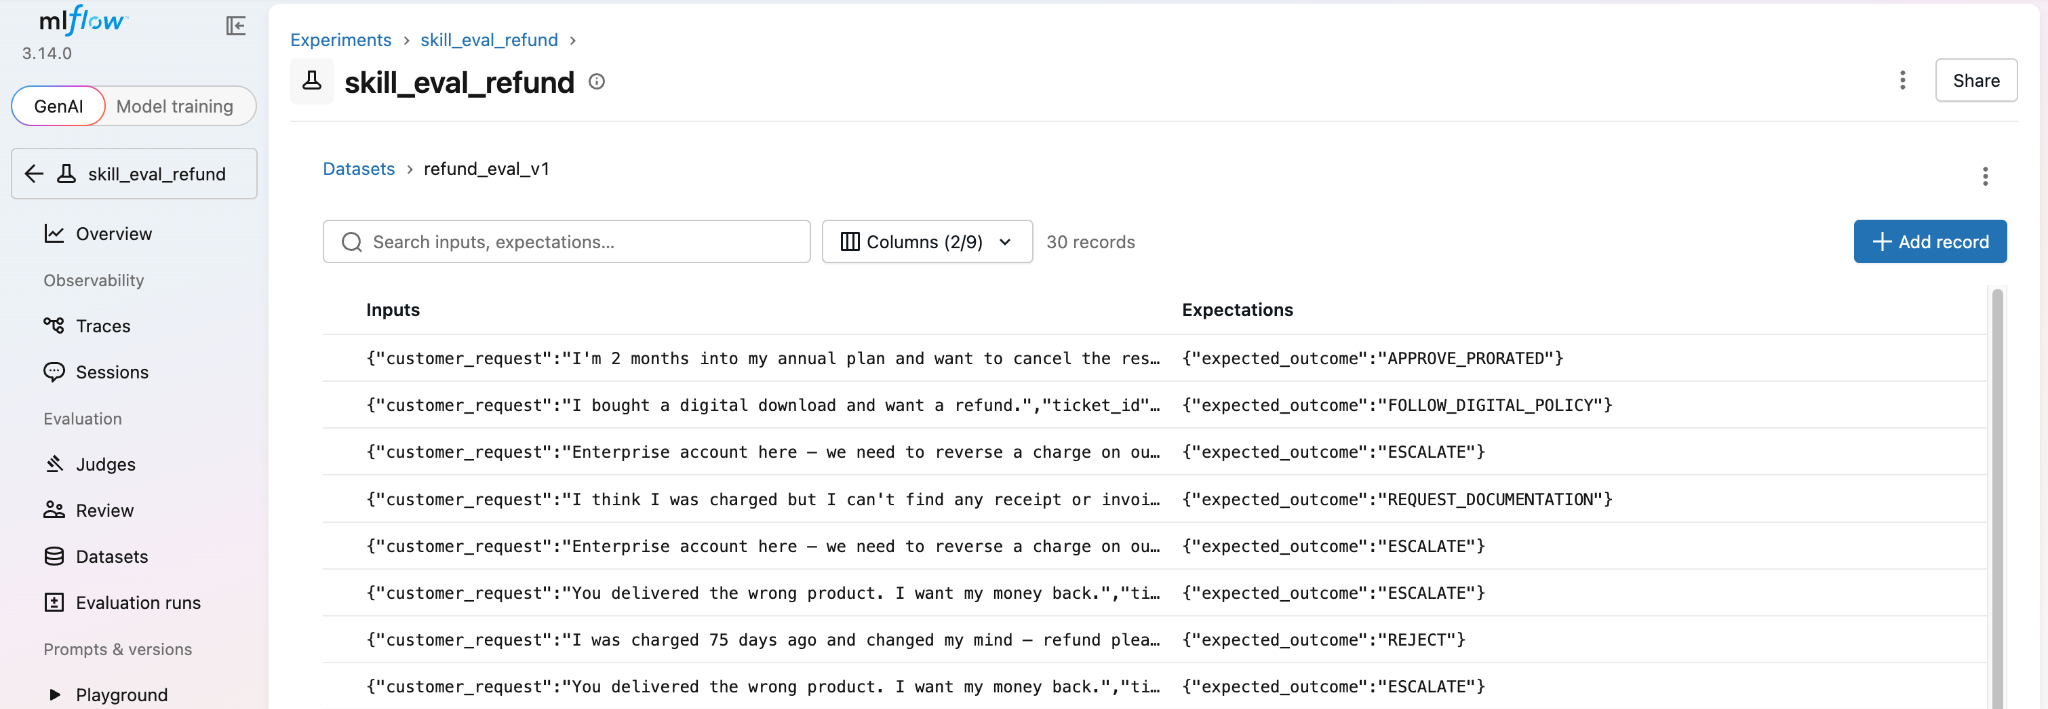
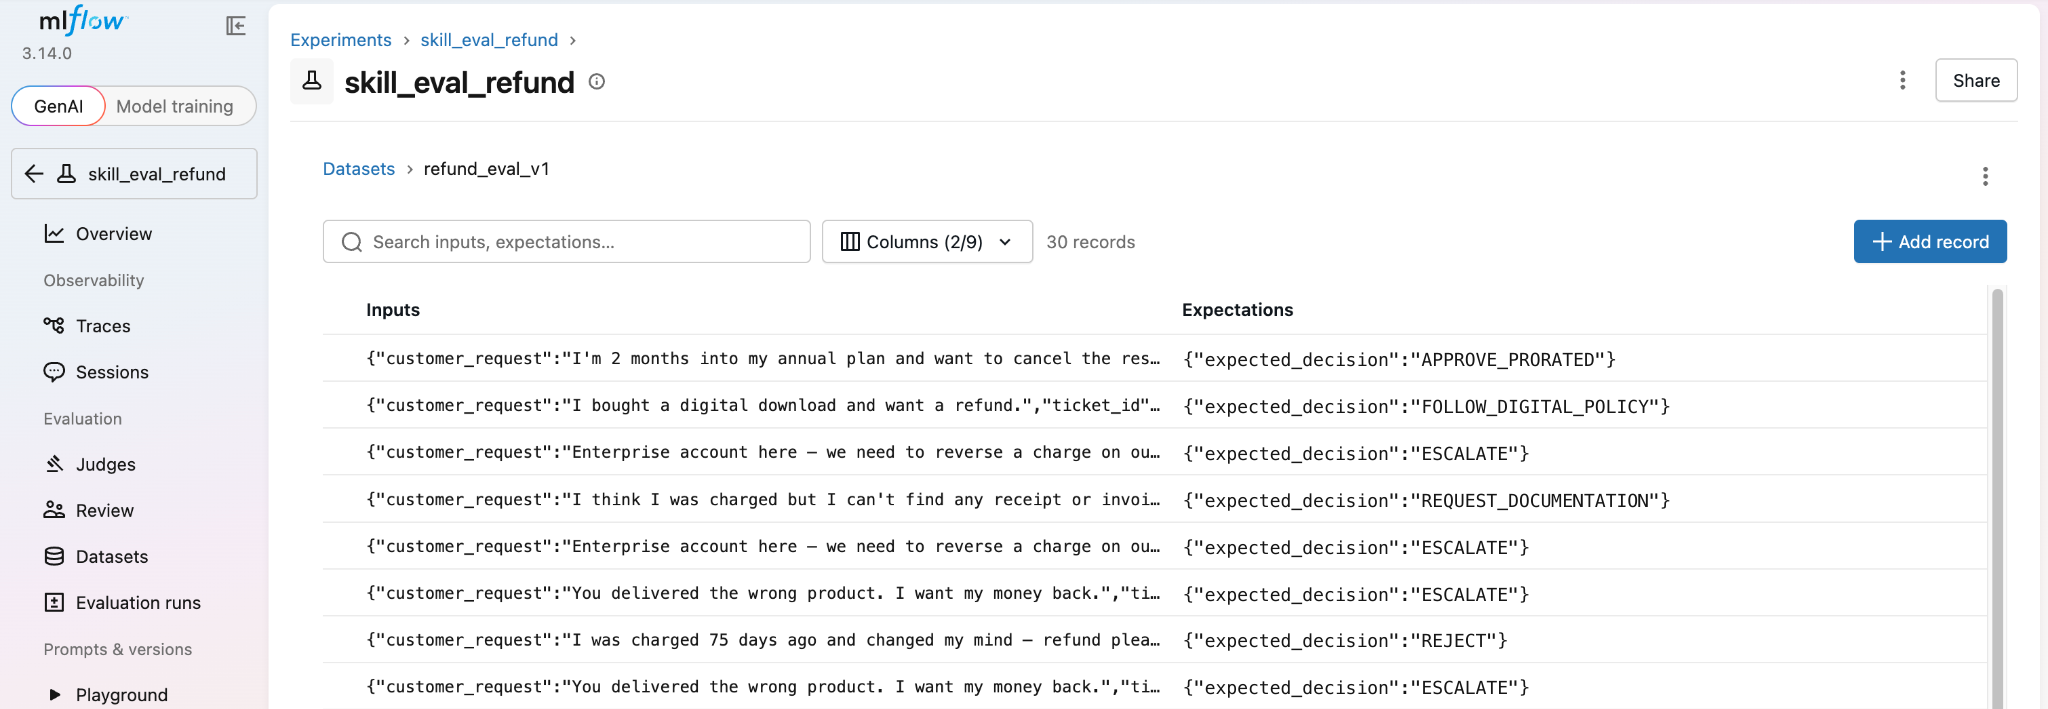
blog: address second round of review feedback
- Link 'skill' to the Agent Skills docs
- Use the correct skill file format in all three YAML examples
- Add the required imports to both scorer snippets
- Drop the pseudocode line above the correctness scorer
- Simplify correct_tool_selection and fold it into the scorers list,
  removing the redundant custom-evaluator section
- Move the dataset paragraph out of the scorers section
- Remove the inaccurate prompt/artifact versioning claim
- Promote Scorers to a top-level heading and drop the em dashes
- Correct expected_outcome to expected_decision in the dataset screenshot

diff --git a/website/blog/2026-08-02-evaluating-improving-agent-skills/index.md b/website/blog/2026-08-02-evaluating-improving-agent-skills/index.md
@@ -11,7 +11,7 @@ date: 2026-08-02
 
 How to build measurable, testable, and continuously improving AI agent capabilities.
 
-Agents are becoming increasingly capable of solving complex tasks by combining reasoning, tools, memory, and structured workflows. Across frameworks such as LangGraph, OpenAI Agents SDK, Claude Code, CrewAI, Cortex, OpenClaw, and Hermes, a common pattern has emerged: agents are built from reusable skills. These skills encapsulate specific capabilities—such as retrieving information, generating SQL, validating invoices, planning multi-step tasks, or interacting with APIs—making agents easier to develop and maintain. But this modular approach introduces an important question: how do you know whether a skill is actually improving?
+Agents are becoming increasingly capable of solving complex tasks by combining reasoning, tools, memory, and structured workflows. Across frameworks such as LangGraph, OpenAI Agents SDK, Claude Code, CrewAI, Cortex, OpenClaw, and Hermes, a common pattern has emerged: agents are built from reusable skills. These skills encapsulate specific capabilities, such as retrieving information, generating SQL, validating invoices, planning multi-step tasks, or interacting with APIs, making agents easier to develop and maintain. But this modular approach introduces an important question: how do you know whether a skill is actually improving?
 
 <!-- truncate -->
 
@@ -19,12 +19,15 @@ Many teams still evaluate skills manually by running a few prompts and checking 
 
 ## What Is an Agent Skill?
 
-A skill is a reusable capability that an agent can invoke to complete part of a task, such as retrieving documents from a vector database, generating SQL queries, calling external APIs, validating receipts, planning execution steps, or reviewing generated code. Rather than embedding all instructions inside a monolithic system prompt, developers can create focused skills that evolve independently. For example, instead of building a customer support agent around one large prompt containing every policy, we might define a reusable refund skill.
+A [skill](https://platform.claude.com/docs/en/agents-and-tools/agent-skills/overview) is a reusable capability that an agent can invoke to complete part of a task, such as retrieving documents from a vector database, generating SQL queries, calling external APIs, validating receipts, planning execution steps, or reviewing generated code. Rather than embedding all instructions inside a monolithic system prompt, developers can create focused skills that evolve independently. For example, instead of building a customer support agent around one large prompt containing every policy, we might define a reusable refund skill.
 
 ```yaml
+---
 name: refund-evaluation
 description: Use this skill to evaluate whether a customer is eligible for a refund according to the applicable refund policy.
+---
 ## Responsibilities
+
 - Validate purchase date
 - Verify order status
 - Apply refund policy
@@ -41,20 +44,24 @@ Skills rarely stay static, and as production feedback arrives, developers contin
 Version 1:
 
 ```yaml
+---
 name: refund-evaluation
 description: Use this skill to evaluate whether a customer is eligible for a refund according to the applicable refund policy.
+---
 Validate receipts for refund.
 ```
 
 Version 2:
 
 ```yaml
+---
 name: refund-evaluation
 description: Use this skill to evaluate whether a customer is eligible for a refund according to the applicable refund policy.
-• Ignore duplicate uploads
-• Accept PDF receipts
-• Reject blurry images
-• Handle foreign currencies
+---
+- Ignore duplicate uploads
+- Accept PDF receipts
+- Reject blurry images
+- Handle foreign currencies
 ```
 
 The updated instructions appear better, but appearances can be misleading. Duplicate detection may have improved while blurry receipt detection became less reliable, or latency may have increased because the skill now performs additional reasoning. Without structured evaluation, these regressions often go unnoticed until users report them.
@@ -83,14 +90,20 @@ For our refund skill:
 | Digital purchase        | Follow digital policy |
 | Missing receipt         | Request documentation |
 
-### Scorers
+Unlike benchmark datasets, evaluation datasets evolve with production, so whenever users discover failure cases, add them to the dataset to prevent future regressions.
+
+![Evaluation datasets grow over time as new failure cases are added](./evaluation-dataset.png)
+
+## Scorers
 
 **1. Correctness: Output-based**
 
 Compares the skill's final response against Expected Outcome (Using Expectations / Ground Truth). Doesn't look inside the trace just the answer.
 
 ```python
-correctness = (decision == expected_outcome)
+from mlflow.entities import Feedback
+from mlflow.genai import scorer
+
 
 @scorer
 def correctness(outputs, expectations) -> Feedback:
@@ -110,59 +123,24 @@ Checks whether the skill honored the business rule for that scenario. It reads t
 
 **3. Correct_tool_selection: Trace-based**
 
-Ignores the final answer entirely. Reads the execution trace to confirm the expected tools ran, in the right order, before the response.
+Reads the execution trace to confirm the expected tools ran, in the right order, before the response. This scorer does not evaluate the final answer but rather the intermediate steps that agent went through. Because the trace records every span, the scorer can require that identity verification happened before the refund decision:
 
 ```python
-correct_tool_selection = verify_customer ran AND search_order ran AND both happened before generate_response
-```
-
-Unlike benchmark datasets, evaluation datasets evolve with production, so whenever users discover failure cases, add them to the dataset to prevent future regressions.
-
-![Evaluation datasets grow over time as new failure cases are added](./evaluation-dataset.png)
-
-## Going Beyond Built-In Metrics
-
-General-purpose metrics such as correctness are useful, but production systems often require domain-specific evaluation. For example, if every refund must verify customer identity before accessing order history, we can encode that expectation directly as a custom evaluator.
-
-```python
+from mlflow.entities import Feedback, Trace
 from mlflow.genai import scorer
 
+
 @scorer
-def correct_tool_selection(outputs, trace: Trace) -> Feedback:
-    """Expected tools ran, in order, before the refund decision."""
-    steps = _ordered_steps(trace)
-    order = [step.name for step in steps]
+def correct_tool_selection(trace: Trace) -> Feedback:
+    """verify_identity must run before decide_and_respond."""
+    verify = trace.search_spans(name="verify_identity")
+    decide = trace.search_spans(name="decide_and_respond")
 
-    decide_spans = trace.search_spans(name="decide_and_respond")
-    decide_start = decide_spans[0].start_time_ns if decide_spans else None
-
-    called_before = [
-        step.name
-        for step in steps
-        if step.name in EXPECTED_TOOLS
-        and (decide_start is None or step.start_time_ns < decide_start)
-    ]
-    tools = called_before == EXPECTED_TOOLS
-
-    decision = _decision(outputs, trace)
-    verify_spans = trace.search_spans(name="verify_identity")
-    verification = decision not in REFUND_DECISIONS or (
-        decide_start is not None
-        and verify_spans
-        and verify_spans[0].start_time_ns < decide_start
-        and _obj(verify_spans[0].outputs).get("verified")
-    )
-
-    return Feedback(
-        value=tools and verification,
-        rationale=(
-            f"order={order}; tools={tools}; "
-            f"verification={verification}"
-        ),
-    )
+    ok = bool(verify and decide and verify[0].start_time_ns < decide[0].start_time_ns)
+    return Feedback(value=ok, rationale="verified before the decision" if ok else "verification missing")
 ```
 
-Now every evaluation run automatically checks whether identity verification occurred. As skills become more sophisticated, you can add evaluators for tool selection, API sequencing, citation completeness, planning quality, cost efficiency, safety compliance, hallucination detection, approval workflows, and retry behavior after failures. Together, these evaluators measure how the skill behaves—not merely what it outputs.
+Every evaluation run now checks that the workflow was followed, not just that the answer was right. The same pattern extends to other behaviors: API sequencing, citation completeness, planning quality, cost efficiency, and retry behavior after failures.
 
 ## Running Skill Evaluations with MLflow
 
@@ -225,7 +203,6 @@ MLflow brings these capabilities together in one platform:
 - Evaluation measures outputs and behaviors using built-in and custom scorers.
 - Experiment Tracking records every run for reproducibility and comparison.
 - Datasets enable regression testing with representative scenarios.
-- Prompt and Artifact Versioning helps teams manage the evolution of skills over time.
 
 Together, these capabilities enable an evaluation-driven development process where every skill change is measurable, reproducible, and backed by data. As reusable skills become fundamental building blocks of modern AI agents, systematically evaluating and improving them becomes increasingly important. Rather than asking whether an agent simply "seems to work," teams can identify which skills fail, understand why, compare versions, detect regressions, and validate improvements with objective data. By combining tracing, datasets, custom evaluators, and experiment tracking, MLflow helps teams treat skills as measurable, versioned, and continuously improving components, resulting in more reliable, maintainable, and trustworthy AI agents.
 
